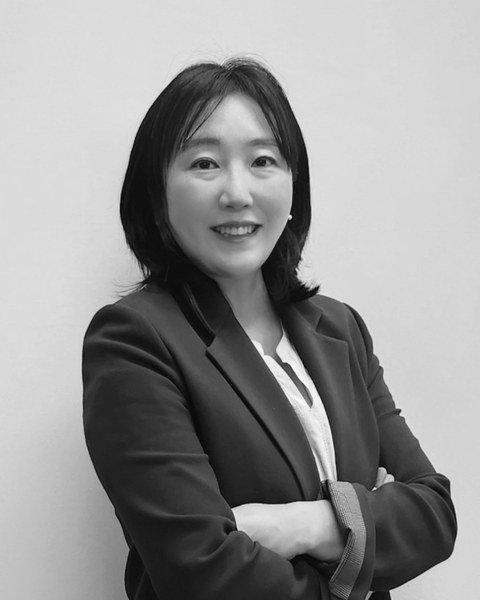
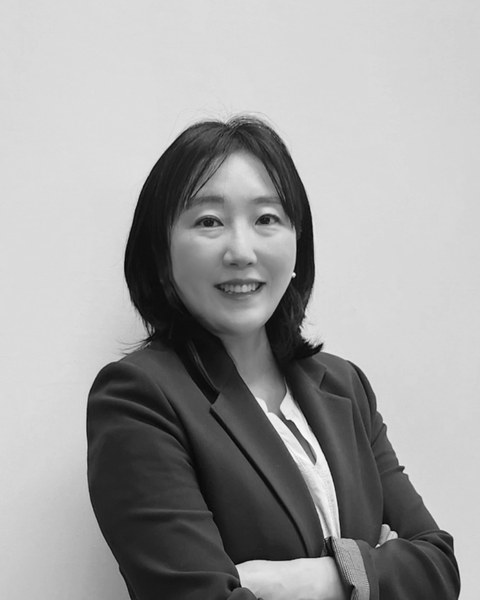
Tighten crop to close-up on 김진우/김금단/배경호/안소현
Requested a closer-in look for these 4 specifically. Reduced the
frame margin from the last round while keeping the crossed-arm pose
and headroom intact (verified each one individually before committing
to avoid re-introducing the earlier arm-clipping issue).

diff --git a/index.html b/index.html
@@ -199,18 +199,18 @@
           <h3>디쌤</h3>
           <p class="tcard-role">원장 · 영어</p>
         </div>
-        <div class="carousel-slide tcard lightbox-trigger" data-name="김진우" data-role="부원장 · 국어" data-photo="assets/teacher-kimjinwoo.jpg?v=4">
-          <div class="tcard-photo-wrap"><img class="tcard-photo" src="assets/teacher-kimjinwoo.jpg?v=4" alt="김진우"></div>
+        <div class="carousel-slide tcard lightbox-trigger" data-name="김진우" data-role="부원장 · 국어" data-photo="assets/teacher-kimjinwoo.jpg?v=5">
+          <div class="tcard-photo-wrap"><img class="tcard-photo" src="assets/teacher-kimjinwoo.jpg?v=5" alt="김진우"></div>
           <h3>김진우</h3>
           <p class="tcard-role">부원장 · 국어</p>
         </div>
-        <div class="carousel-slide tcard lightbox-trigger" data-name="김금단" data-role="팀장 · 영어" data-photo="assets/teacher-kimgeumdan.jpg?v=3">
-          <div class="tcard-photo-wrap"><img class="tcard-photo" src="assets/teacher-kimgeumdan.jpg?v=3" alt="김금단"></div>
+        <div class="carousel-slide tcard lightbox-trigger" data-name="김금단" data-role="팀장 · 영어" data-photo="assets/teacher-kimgeumdan.jpg?v=4">
+          <div class="tcard-photo-wrap"><img class="tcard-photo" src="assets/teacher-kimgeumdan.jpg?v=4" alt="김금단"></div>
           <h3>김금단</h3>
           <p class="tcard-role">팀장 · 영어</p>
         </div>
-        <div class="carousel-slide tcard lightbox-trigger" data-name="배경호" data-role="팀장 · 수학" data-photo="assets/teacher-baekyungho.jpg?v=4">
-          <div class="tcard-photo-wrap"><img class="tcard-photo" src="assets/teacher-baekyungho.jpg?v=4" alt="배경호"></div>
+        <div class="carousel-slide tcard lightbox-trigger" data-name="배경호" data-role="팀장 · 수학" data-photo="assets/teacher-baekyungho.jpg?v=5">
+          <div class="tcard-photo-wrap"><img class="tcard-photo" src="assets/teacher-baekyungho.jpg?v=5" alt="배경호"></div>
           <h3>배경호</h3>
           <p class="tcard-role">팀장 · 수학</p>
         </div>
@@ -219,8 +219,8 @@
           <h3>신병철</h3>
           <p class="tcard-role">수학</p>
         </div>
-        <div class="carousel-slide tcard lightbox-trigger" data-name="안소현" data-role="국어" data-photo="assets/teacher-ansoseon.jpg?v=3">
-          <div class="tcard-photo-wrap"><img class="tcard-photo" src="assets/teacher-ansoseon.jpg?v=3" alt="안소현"></div>
+        <div class="carousel-slide tcard lightbox-trigger" data-name="안소현" data-role="국어" data-photo="assets/teacher-ansoseon.jpg?v=4">
+          <div class="tcard-photo-wrap"><img class="tcard-photo" src="assets/teacher-ansoseon.jpg?v=4" alt="안소현"></div>
           <h3>안소현</h3>
           <p class="tcard-role">국어</p>
         </div>

diff --git a/process-teachers.js b/process-teachers.js
@@ -10,11 +10,11 @@ const OUT_W = 480, OUT_H = 600; // 4:5 portrait, consistent across all cards
 // the auto-fit step below only needs to make small adjustments.
 const photos = [
   { file: '디쌤 원장 프로필.jpg', out: 'teacher-disaem.jpg', top: 0.07, bottom: 0.88, left: 0.1635, right: 0.8115, normalize: true },
-  { file: '김진우 프로필.jpg', out: 'teacher-kimjinwoo.jpg', top: 0.02, bottom: 0.90, left: 0.06, right: 0.94 },
-  { file: '김금단 프로필.png', out: 'teacher-kimgeumdan.jpg', top: 0.06, bottom: 0.87, left: 0.176, right: 0.824 },
-  { file: '배경호 프로필.jpg', out: 'teacher-baekyungho.jpg', top: 0.015, bottom: 0.923, left: 0.08, right: 0.94 },
+  { file: '김진우 프로필.jpg', out: 'teacher-kimjinwoo.jpg', top: 0.02, bottom: 0.85, left: 0.09, right: 0.92 },
+  { file: '김금단 프로필.png', out: 'teacher-kimgeumdan.jpg', top: 0.12, bottom: 0.70, left: 0.17, right: 0.82 },
+  { file: '배경호 프로필.jpg', out: 'teacher-baekyungho.jpg', top: 0.015, bottom: 0.87, left: 0.11, right: 0.92 },
   { file: '신병철프로필.png', out: 'teacher-shinbyungchul.jpg', top: 0.02, bottom: 0.804, left: 0.05, right: 0.93 },
-  { file: '안소현 프로필.jpg', out: 'teacher-ansoseon.jpg', top: 0.06, bottom: 0.70, left: 0.15, right: 0.85 },
+  { file: '안소현 프로필.jpg', out: 'teacher-ansoseon.jpg', top: 0.05, bottom: 0.64, left: 0.17, right: 0.82 },
   { file: '최윤후 프로필.jpg', out: 'teacher-choiyoonhoo.jpg', top: 0.015, bottom: 0.777, left: 0.08, right: 0.89 },
   { file: '조윤성 프로필.png', out: 'teacher-jhoyoonsung.jpg', top: 0.12, bottom: 0.76, left: 0.13, right: 0.85 },
   { file: '장효진 프로필.jpg', out: 'teacher-jangHyojin.jpg', top: 0.04, bottom: 0.75, left: 0.05, right: 0.90 },
